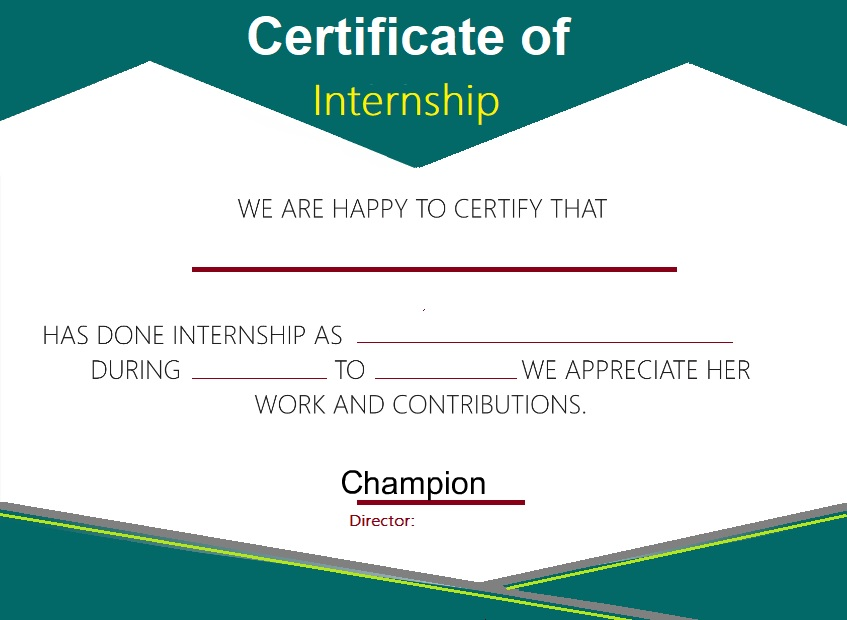
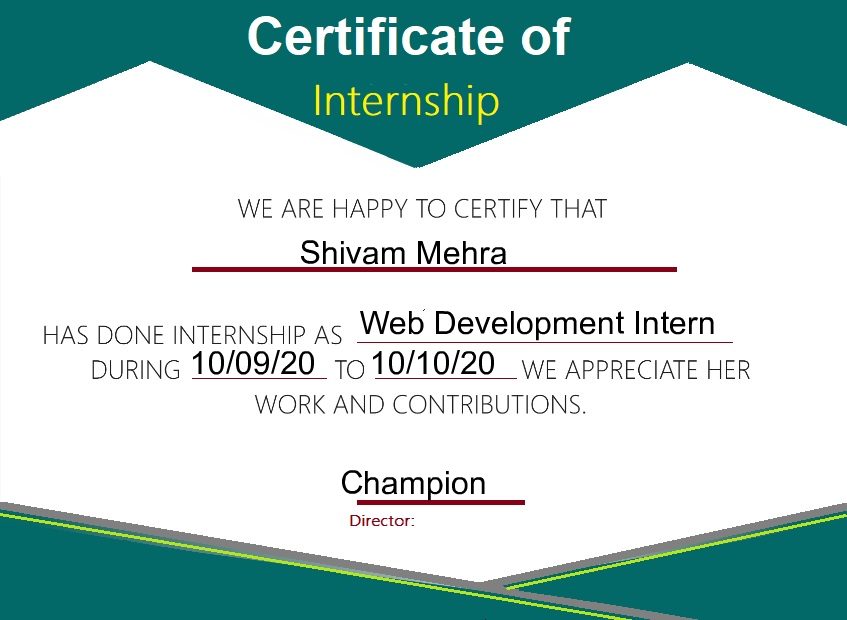
Bug:Fixed

Changed region(s): [[0.4298, 0.4903, 0.8595, 0.6129], [0.3377, 0.3677, 0.6139, 0.429], [0.2149, 0.5516, 0.3684, 0.6129]]

diff --git a/api/creating.js b/api/creating.js
@@ -40,64 +40,47 @@ app.get("/creating/:postId/:tempId", function(req, res){               //here po
         
     });
     
-    //This fetches all the entered fields for the id passed.
-    Certi.find({_id: requestedPostId}, function(err, certis){
-        // console.log(certis[0].fields.length);
     
-    //   console.log(JSON.stringify(certis,null));
-      var i;
-      //loop to print values on certificate
-      
-      for(i=0;i<certis[0].fields.length;i++){
-        // field_name=certis[0].fields[i].fieldname;
-        // x_coor=certis[0].fields[i].coox;
-        // y_coor=certis[0].fields[i].cooy;
-        // field_value=certis[0].fields[i].value;
-
-
-        //printing values on fields
-        Printcertificate(certis[0].fields[i].coox,certis[0].fields[i].cooy,certis[0].fields[i].value); 
-         
-      }
-           
-    
-      
-      
-      
-    });
+    Printcertificate(); 
     //to store template name to be used as global
     function Storetemplatename(){
         var a=`${fetchedData.tempname}`;
         return a;
     }
     // to print the certificate
-    function Printcertificate(x_coor,y_coor,field_value){
+    function Printcertificate(){
         var b=Storetemplatename();
-        (async function(){
-            const image=await jimp.read("../uploads/certifi.png");
-            const font =await jimp.loadFont(jimp.FONT_SANS_32_BLACK);
-            
-            image.print(font,x_coor,y_coor,`${field_value}`);
-            image.write("newcertificate2.png");
-            
+        //This fetches all the entered fields for the id passed.
+        Certi.find({_id: requestedPostId}, function(err, certis){
+        // console.log(certis[0].fields.length);
+    
+    //   console.log(JSON.stringify(certis,null));
+     
+      //loop to print values on certificate
+      (async function(){
+        const image=await jimp.read("../uploads/certifi.png");
+        const font =await jimp.loadFont(jimp.FONT_SANS_32_BLACK);
+        var i=0;
+        for(i=0;i<certis[0].fields.length;i++){
+            image.print(font,certis[0].fields[i].coox,certis[0].fields[i].cooy,`${certis[0].fields[i].value}`);
 
-            
-            
-        })().catch((err)=>{
-            if(err){
-                throw err
-            }
-        });
-       
-  
+        }
         
         
+        image.write("newcertificate2.png");
+        
 
+        
+        
+    })().catch((err)=>{
+        if(err){
+            throw err
+        }
+    });
+
+      
+    });
     }
-
-    
-    
-
     
   
   });
